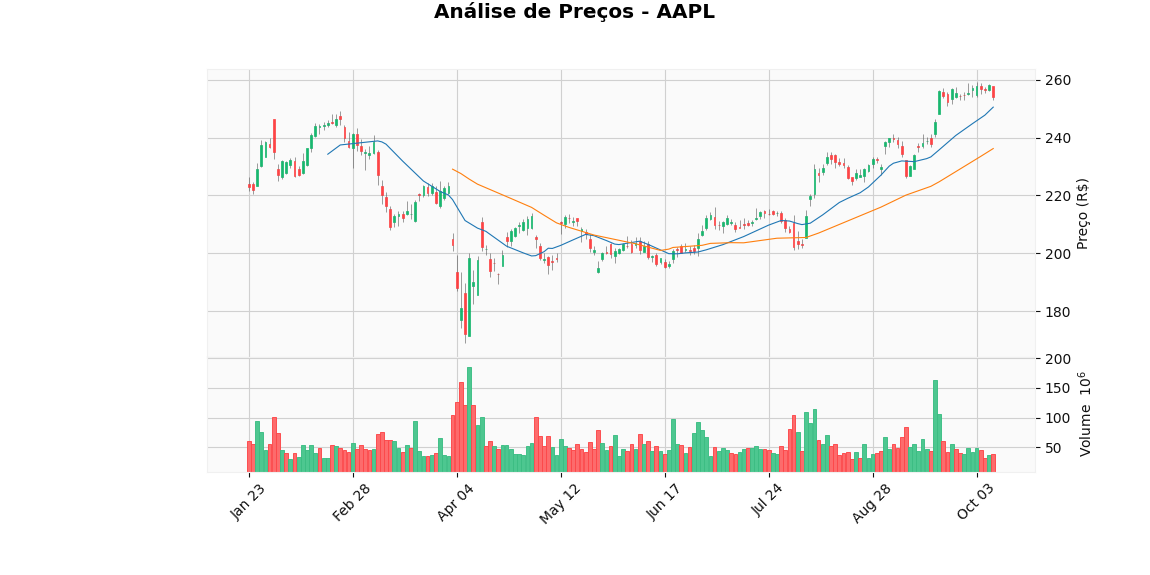
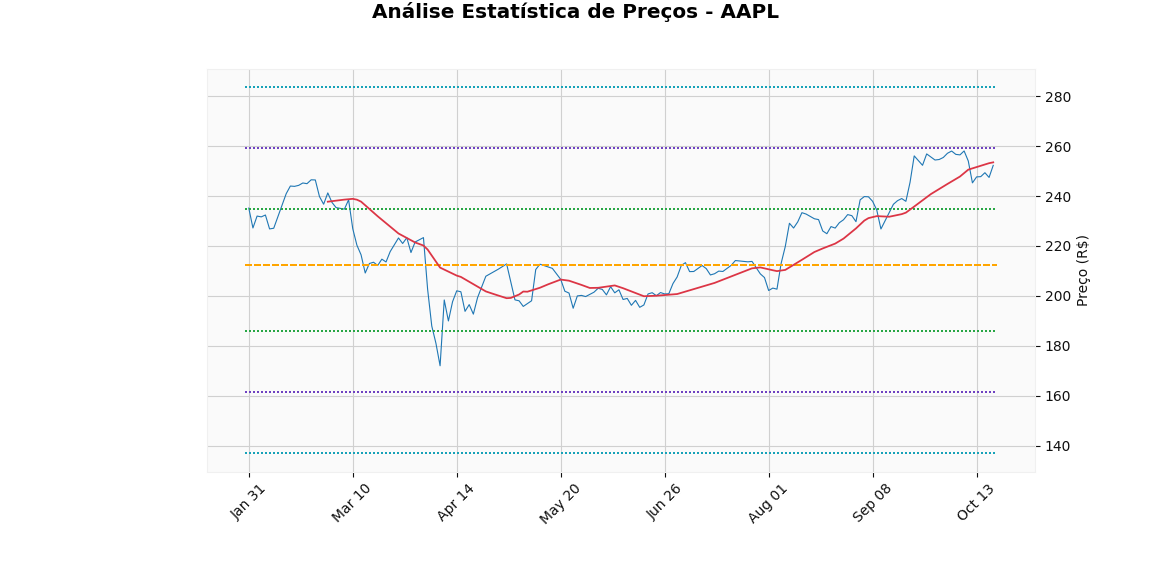
adicionando botao home

diff --git a/analise.py b/analise.py
@@ -7,19 +7,22 @@ import os
 def gerar_explicacao_grafico(ticker: str, estatisticas: dict):
     """Gera uma explicação em texto sobre a análise do ativo."""
     ultimo_preco = estatisticas['ultimo_valor']
-    media_preco = estatisticas['media']
-    
-    tendencia = "acima" if ultimo_preco > media_preco else "abaixo"
+    mediana_preco = estatisticas['mediana']
     
     explicacao = (
         f"Esta é uma análise técnica para o ativo {ticker.upper()}.\n\n"
-        f"O gráfico de candlestick mostra a variação de preço diária, onde cada 'vela' representa um dia. Esse gráfico contém os dados relativos aos últimos 6 meses."
-        f" Velas verdes indicam dias de alta e velas vermelhas, dias de baixa.\n\n"
-        f"As linhas azul e laranja são as Médias Móveis de 20 e 50 dias, respectivamente. Elas ajudam a visualizar a tendência do ativo. "
-        f"Quando a linha azul (curto prazo) está acima da laranja (longo prazo), geralmente sinaliza uma tendência de alta.\n\n"
-        f"Estatísticas Principais:\n"
+        f"O gráfico de linha (preta) mostra a variação do preço de fechamento diário para os últimos 6 meses.\n\n"
+        f"O gráfico contém as seguintes linhas de referência:\n"
+        f" - Linha Vermelha: É a média móvel simples de 20 dias (MMS20). Ela suaviza os preços e ajuda a identificar a tendência de curto prazo do ativo.\n"
+        f" - Linha Laranja (tracejada): É a Mediana de todo o período, o valor que divide os preços exatamente ao meio.\n"
+        f" - Linhas de Desvio Padrão (pontilhadas): Marcam as zonas de volatilidade com cores distintas:\n"
+        f"    - Verde: Para ±1 desvio padrão, onde cerca de 68% dos preços costumam estar.\n"
+        f"    - Roxo: Para ±2 desvios padrão, abrangendo cerca de 95% dos preços.\n"
+        f"    - Ciano: Para ±3 desvios padrão, indicando faixas de preço menos comuns.\n\n"
+        f"Estatísticas Principais (baseadas em todo o período de 2 anos):\n"
         f"- Último Preço de Fechamento: R$ {ultimo_preco:.2f}\n"
-        f"- Preço Médio no Período: R$ {media_preco:.2f} (o preço atual está {tendencia} da média)\n"
+        f"- Preço Médio no Período: R$ {estatisticas['media']:.2f}\n"
+        f"- Mediana no Período: R$ {mediana_preco:.2f}\n"
         f"- Volatilidade (Desvio Padrão): R$ {estatisticas['desvio_padrao']:.2f}\n"
         f"- Faixa de Preço no Período: R$ {estatisticas['minimo']:.2f} (mín) a R$ {estatisticas['maximo']:.2f} (máx)"
     )
@@ -29,22 +32,21 @@ def gerar_analise(ticker: str):
     """
     Função principal que retorna estatísticas, caminho do gráfico e explicação.
     """
-    # Garante que a pasta 'static' exista
     os.makedirs("static", exist_ok=True)
 
     data_final = datetime.now()
     data_inicial = data_final - timedelta(days=730)
 
-    # 1. Coleta de Dados
-    dados = yf.download(ticker, start=data_inicial, end=data_final)
+    dados = yf.download(ticker, start=data_inicial, end=data_inicial + timedelta(days=730)) # Limitando a 2 anos exatos
 
     if dados.empty:
         return None, None, None
 
-    dados.columns = dados.columns.droplevel(1)
+    if isinstance(dados.columns, pd.MultiIndex):
+        dados.columns = dados.columns.droplevel(1)
+        
     dados = dados[:-1]
 
-    # 2. Análise Estatística
     preco_fechamento = dados['Close']
     estatisticas = {
         "media": preco_fechamento.mean(),
@@ -54,24 +56,49 @@ def gerar_analise(ticker: str):
         "maximo": preco_fechamento.max(),
         "ultimo_valor": preco_fechamento.iloc[-1]
     }
+    
+    dados_grafico = dados.tail(180) # Gráfico para os últimos 6 meses
 
-    # 3. Geração da Explicação
+    periodo_media_movel = 20 
+    dados_grafico[f'SMA{periodo_media_movel}'] = dados_grafico['Close'].rolling(window=periodo_media_movel).mean()
+
+    media_total = estatisticas['media']
+    mediana = estatisticas['mediana']
+    dp = estatisticas['desvio_padrao']
+    
+    linhas_horizontais = [
+        mediana,
+        media_total + dp, media_total - dp,          # ±1 DP
+        media_total + 2 * dp, media_total - 2 * dp,  # ±2 DP
+        media_total + 3 * dp, media_total - 3 * dp   # ±3 DP
+    ]
+    
+    cores = [
+        '#FFA500',      # Mediana (Laranja)
+        '#28A745', '#28A745',  # Desvio Padrão 1 (Verde)
+        '#6f42c1', '#6f42c1',  # Desvio Padrão 2 (Roxo)
+        '#17A2B8', '#17A2B8'   # Desvio Padrão 3 (Ciano)
+    ]
+    estilos = ['--', ':', ':', ':', ':', ':', ':']
+
     explicacao = gerar_explicacao_grafico(ticker, estatisticas)
-
-    # 4. Geração do Gráfico
-    dados_grafico = dados.tail(180)
 
     caminho_grafico = f"static/grafico_{ticker.replace('.', '_').upper()}.png"
 
+    add_plot = [mpf.make_addplot(dados_grafico[f'SMA{periodo_media_movel}'], color='#dc3545')] # Média Móvel (Vermelho)
+    
+    market_colors = mpf.make_marketcolors(up='black', down='black')
+    custom_style = mpf.make_mpf_style(base_mpf_style='yahoo', marketcolors=market_colors)
+
     mpf.plot(dados_grafico,
-             type='candle',
-             style='yahoo',
-             title=f'Análise de Preços - {ticker.upper()}',
+             type='line',
+             style=custom_style,
+             title=f'Análise Estatística de Preços - {ticker.upper()}',
              ylabel='Preço (R$)',
-             volume=True,
-             mav=(20, 50),
              figratio=(16,8),
-             savefig=caminho_grafico
+             savefig=caminho_grafico,
+             hlines=dict(hlines=linhas_horizontais, colors=cores, linestyle=estilos, linewidths=1.2),
+             addplot=add_plot
             )
 
     return estatisticas, caminho_grafico, explicacao
